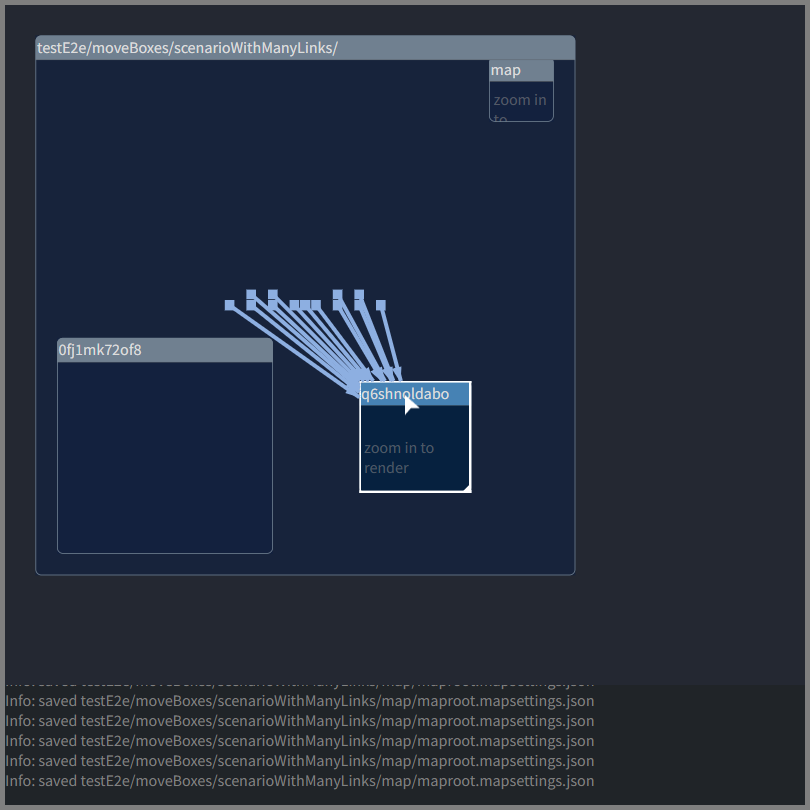
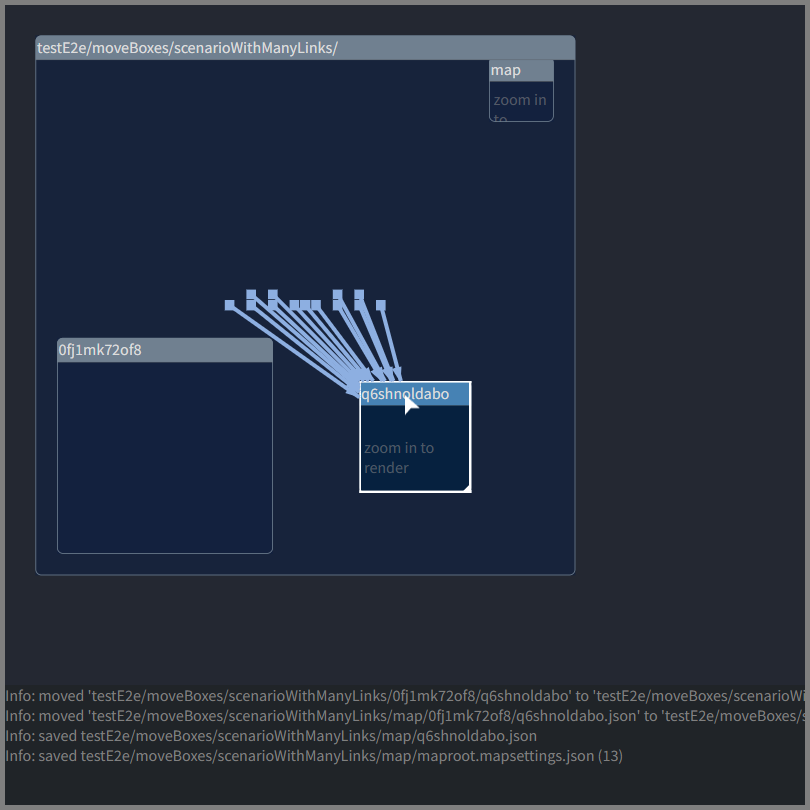
update e2e tests

Changed region(s): [[0.0, 0.8333, 1.0, 0.9877]]

diff --git a/testE2e/moveLinkNodes/moveLinkNodes.test.ts b/testE2e/moveLinkNodes/moveLinkNodes.test.ts
@@ -13,19 +13,23 @@ test('move linkNode into other box', async () => {
     await e2eUtil.expectImageToMatchSnapshot({image: await gui.takeScreenshot(), snapshotIdentifier: 'origin'})
     
     await gui.dragTo(270, 300)
-    const expectedLogs: string[] = [
+    const expectedLogsVariantA: string[] = [
         'Info: saved testE2e/moveLinkNodes/scenario/map/maproot.mapsettings.json',
-        'Info: saved testE2e/moveLinkNodes/scenario/map/maproot.mapsettings.json',
+        'Info: saved testE2e/moveLinkNodes/scenario/map/5p2442vnde.json',
+        'Info: saved testE2e/moveLinkNodes/scenario/map/maproot.mapsettings.json'
+    ]
+    const expectedLogsVariantB: string[] = [
+        'Info: saved testE2e/moveLinkNodes/scenario/map/maproot.mapsettings.json (2)',
         'Info: saved testE2e/moveLinkNodes/scenario/map/5p2442vnde.json'
     ]
     await coreUtil.wait(50) // TODO: otherwise operation may not have finished, improve
-    expect((await gui.getLogs()).sort()).toEqual(expectedLogs.sort())
+    expect([expectedLogsVariantA.sort(), expectedLogsVariantB.sort()]).toContainEqual((await gui.getLogs()).sort())
     await gui.clearTerminal()
     await e2eUtil.expectImageToMatchSnapshot({image: await gui.takeScreenshot(), snapshotIdentifier: 'moved-into-other-box'})
 
     await gui.dragTo(115, 300)
     await coreUtil.wait(50) // TODO: otherwise operation may not have finished, improve
-    expect((await gui.getLogs()).sort()).toEqual(expectedLogs.sort())
+    expect([expectedLogsVariantA.sort(), expectedLogsVariantB.sort()]).toContainEqual((await gui.getLogs()).sort())
     await gui.clearTerminal()
     await e2eUtil.expectImageToMatchSnapshot({image: await gui.takeScreenshot(), snapshotIdentifier: 'origin'})
 })
@@ -41,19 +45,23 @@ test('move linkNode into unrendered box', async () => {
     await e2eUtil.expectImageToMatchSnapshot({image: await gui.takeScreenshot(), snapshotIdentifier: 'origin'})
     
     await gui.dragTo(440, 300)
-    const expectedLogs: string[] = [
-        'Info: saved testE2e/moveLinkNodes/scenario/map/maproot.mapsettings.json',
-        'Info: saved testE2e/moveLinkNodes/scenario/map/maproot.mapsettings.json',
+    const expectedLogsVariantA: string[] = [
+        'Info: saved testE2e/moveLinkNodes/scenario/map/maproot.mapsettings.json (2)',
         'Info: saved testE2e/moveLinkNodes/scenario/map/5p2442vnde/r7hopm62bmg.json'
     ]
+    const expectedLogsVariantB: string[] = [
+        'Info: saved testE2e/moveLinkNodes/scenario/map/maproot.mapsettings.json',
+        'Info: saved testE2e/moveLinkNodes/scenario/map/5p2442vnde/r7hopm62bmg.json',
+        'Info: saved testE2e/moveLinkNodes/scenario/map/maproot.mapsettings.json'
+    ]
     await coreUtil.wait(50) // TODO: otherwise operation may not have finished, improve
-    expect((await gui.getLogs()).sort()).toEqual(expectedLogs.sort())
+    expect([expectedLogsVariantA.sort(), expectedLogsVariantB.sort()]).toContainEqual((await gui.getLogs()).sort())
     await gui.clearTerminal()
     await e2eUtil.expectImageToMatchSnapshot({image: await gui.takeScreenshot(), snapshotIdentifier: 'moved-into-unrendered-box'})
 
     await gui.dragTo(115, 300)
     await coreUtil.wait(50) // TODO: otherwise operation may not have finished, improve
-    expect((await gui.getLogs()).sort()).toEqual(expectedLogs.sort())
+    expect([expectedLogsVariantA.sort(), expectedLogsVariantB.sort()]).toContainEqual((await gui.getLogs()).sort())
     await gui.clearTerminal()
     await e2eUtil.expectImageToMatchSnapshot({image: await gui.takeScreenshot(), snapshotIdentifier: 'origin'})
 })

diff --git a/testE2e/moveBoxes/moveBoxes.test.ts b/testE2e/moveBoxes/moveBoxes.test.ts
@@ -10,18 +10,15 @@ test('move box', async () => {
     
     await gui.clearTerminal()
     await gui.moveMouseTo(150, 400)
-    const expectedLogs: string[] = []
-    expect(await gui.getLogs()).toEqual(expectedLogs)
+    expect(await gui.getLogs()).toEqual([])
     await e2eUtil.expectImageToMatchSnapshot({image: await gui.takeScreenshot(), snapshotIdentifier: snapshotIdentifier+'-origin'})
 
     await gui.dragTo(200, 400)
-    expectedLogs.push('Info: saved testE2e/moveBoxes/scenario/map/0fj1mk72of8/q6shnoldabo.json')
-    await gui.waitUntilLogsEqual(expectedLogs, 100)
+    await gui.waitUntilLogsEqual(['Info: saved testE2e/moveBoxes/scenario/map/0fj1mk72of8/q6shnoldabo.json'], 100)
     await e2eUtil.expectImageToMatchSnapshot({image: await gui.takeScreenshot(), snapshotIdentifier: snapshotIdentifier+'-moved'})
 
     await gui.dragTo(150, 400)
-    expectedLogs.push('Info: saved testE2e/moveBoxes/scenario/map/0fj1mk72of8/q6shnoldabo.json')
-    await gui.waitUntilLogsEqual(expectedLogs, 100)
+    await gui.waitUntilLogsEqual(['Info: saved testE2e/moveBoxes/scenario/map/0fj1mk72of8/q6shnoldabo.json (2)'], 100)
     await gui.clearTerminal()
     await e2eUtil.expectImageToMatchSnapshot({image: await gui.takeScreenshot(), snapshotIdentifier: snapshotIdentifier+'-origin'})
 })
@@ -69,9 +66,7 @@ test('move box with many links to other folder', async () => {
     expectedLogs.push(`Info: moved 'testE2e/moveBoxes/scenarioWithManyLinks/0fj1mk72of8/q6shnoldabo' to 'testE2e/moveBoxes/scenarioWithManyLinks/q6shnoldabo'`)
     expectedLogs.push(`Info: moved 'testE2e/moveBoxes/scenarioWithManyLinks/map/0fj1mk72of8/q6shnoldabo.json' to 'testE2e/moveBoxes/scenarioWithManyLinks/map/q6shnoldabo.json'`)
     expectedLogs.push('Info: saved testE2e/moveBoxes/scenarioWithManyLinks/map/q6shnoldabo.json')
-    for (let i = 0; i < 13; i++) {
-        expectedLogs.push('Info: saved testE2e/moveBoxes/scenarioWithManyLinks/map/maproot.mapsettings.json')
-    }
+    expectedLogs.push('Info: saved testE2e/moveBoxes/scenarioWithManyLinks/map/maproot.mapsettings.json (13)')
     await gui.waitUntilLogsEqual(expectedLogs, 100)
     await e2eUtil.expectImageToMatchSnapshot({image: await gui.takeScreenshot(), snapshotIdentifier: snapshotIdentifier+'-moved-to-other-folder'})
 
@@ -79,9 +74,7 @@ test('move box with many links to other folder', async () => {
     expectedLogs.push(`Info: moved 'testE2e/moveBoxes/scenarioWithManyLinks/q6shnoldabo' to 'testE2e/moveBoxes/scenarioWithManyLinks/0fj1mk72of8/q6shnoldabo'`)
     expectedLogs.push(`Info: moved 'testE2e/moveBoxes/scenarioWithManyLinks/map/q6shnoldabo.json' to 'testE2e/moveBoxes/scenarioWithManyLinks/map/0fj1mk72of8/q6shnoldabo.json'`)
     expectedLogs.push('Info: saved testE2e/moveBoxes/scenarioWithManyLinks/map/0fj1mk72of8/q6shnoldabo.json')
-    for (let i = 0; i < 13; i++) {
-        expectedLogs.push('Info: saved testE2e/moveBoxes/scenarioWithManyLinks/map/maproot.mapsettings.json')
-    }
+    expectedLogs.push('Info: saved testE2e/moveBoxes/scenarioWithManyLinks/map/maproot.mapsettings.json (13)')
     await gui.waitUntilLogsEqual(expectedLogs, 100)
     await gui.clearTerminal()
     await e2eUtil.expectImageToMatchSnapshot({image: await gui.takeScreenshot(), snapshotIdentifier: snapshotIdentifier+'-origin'})
